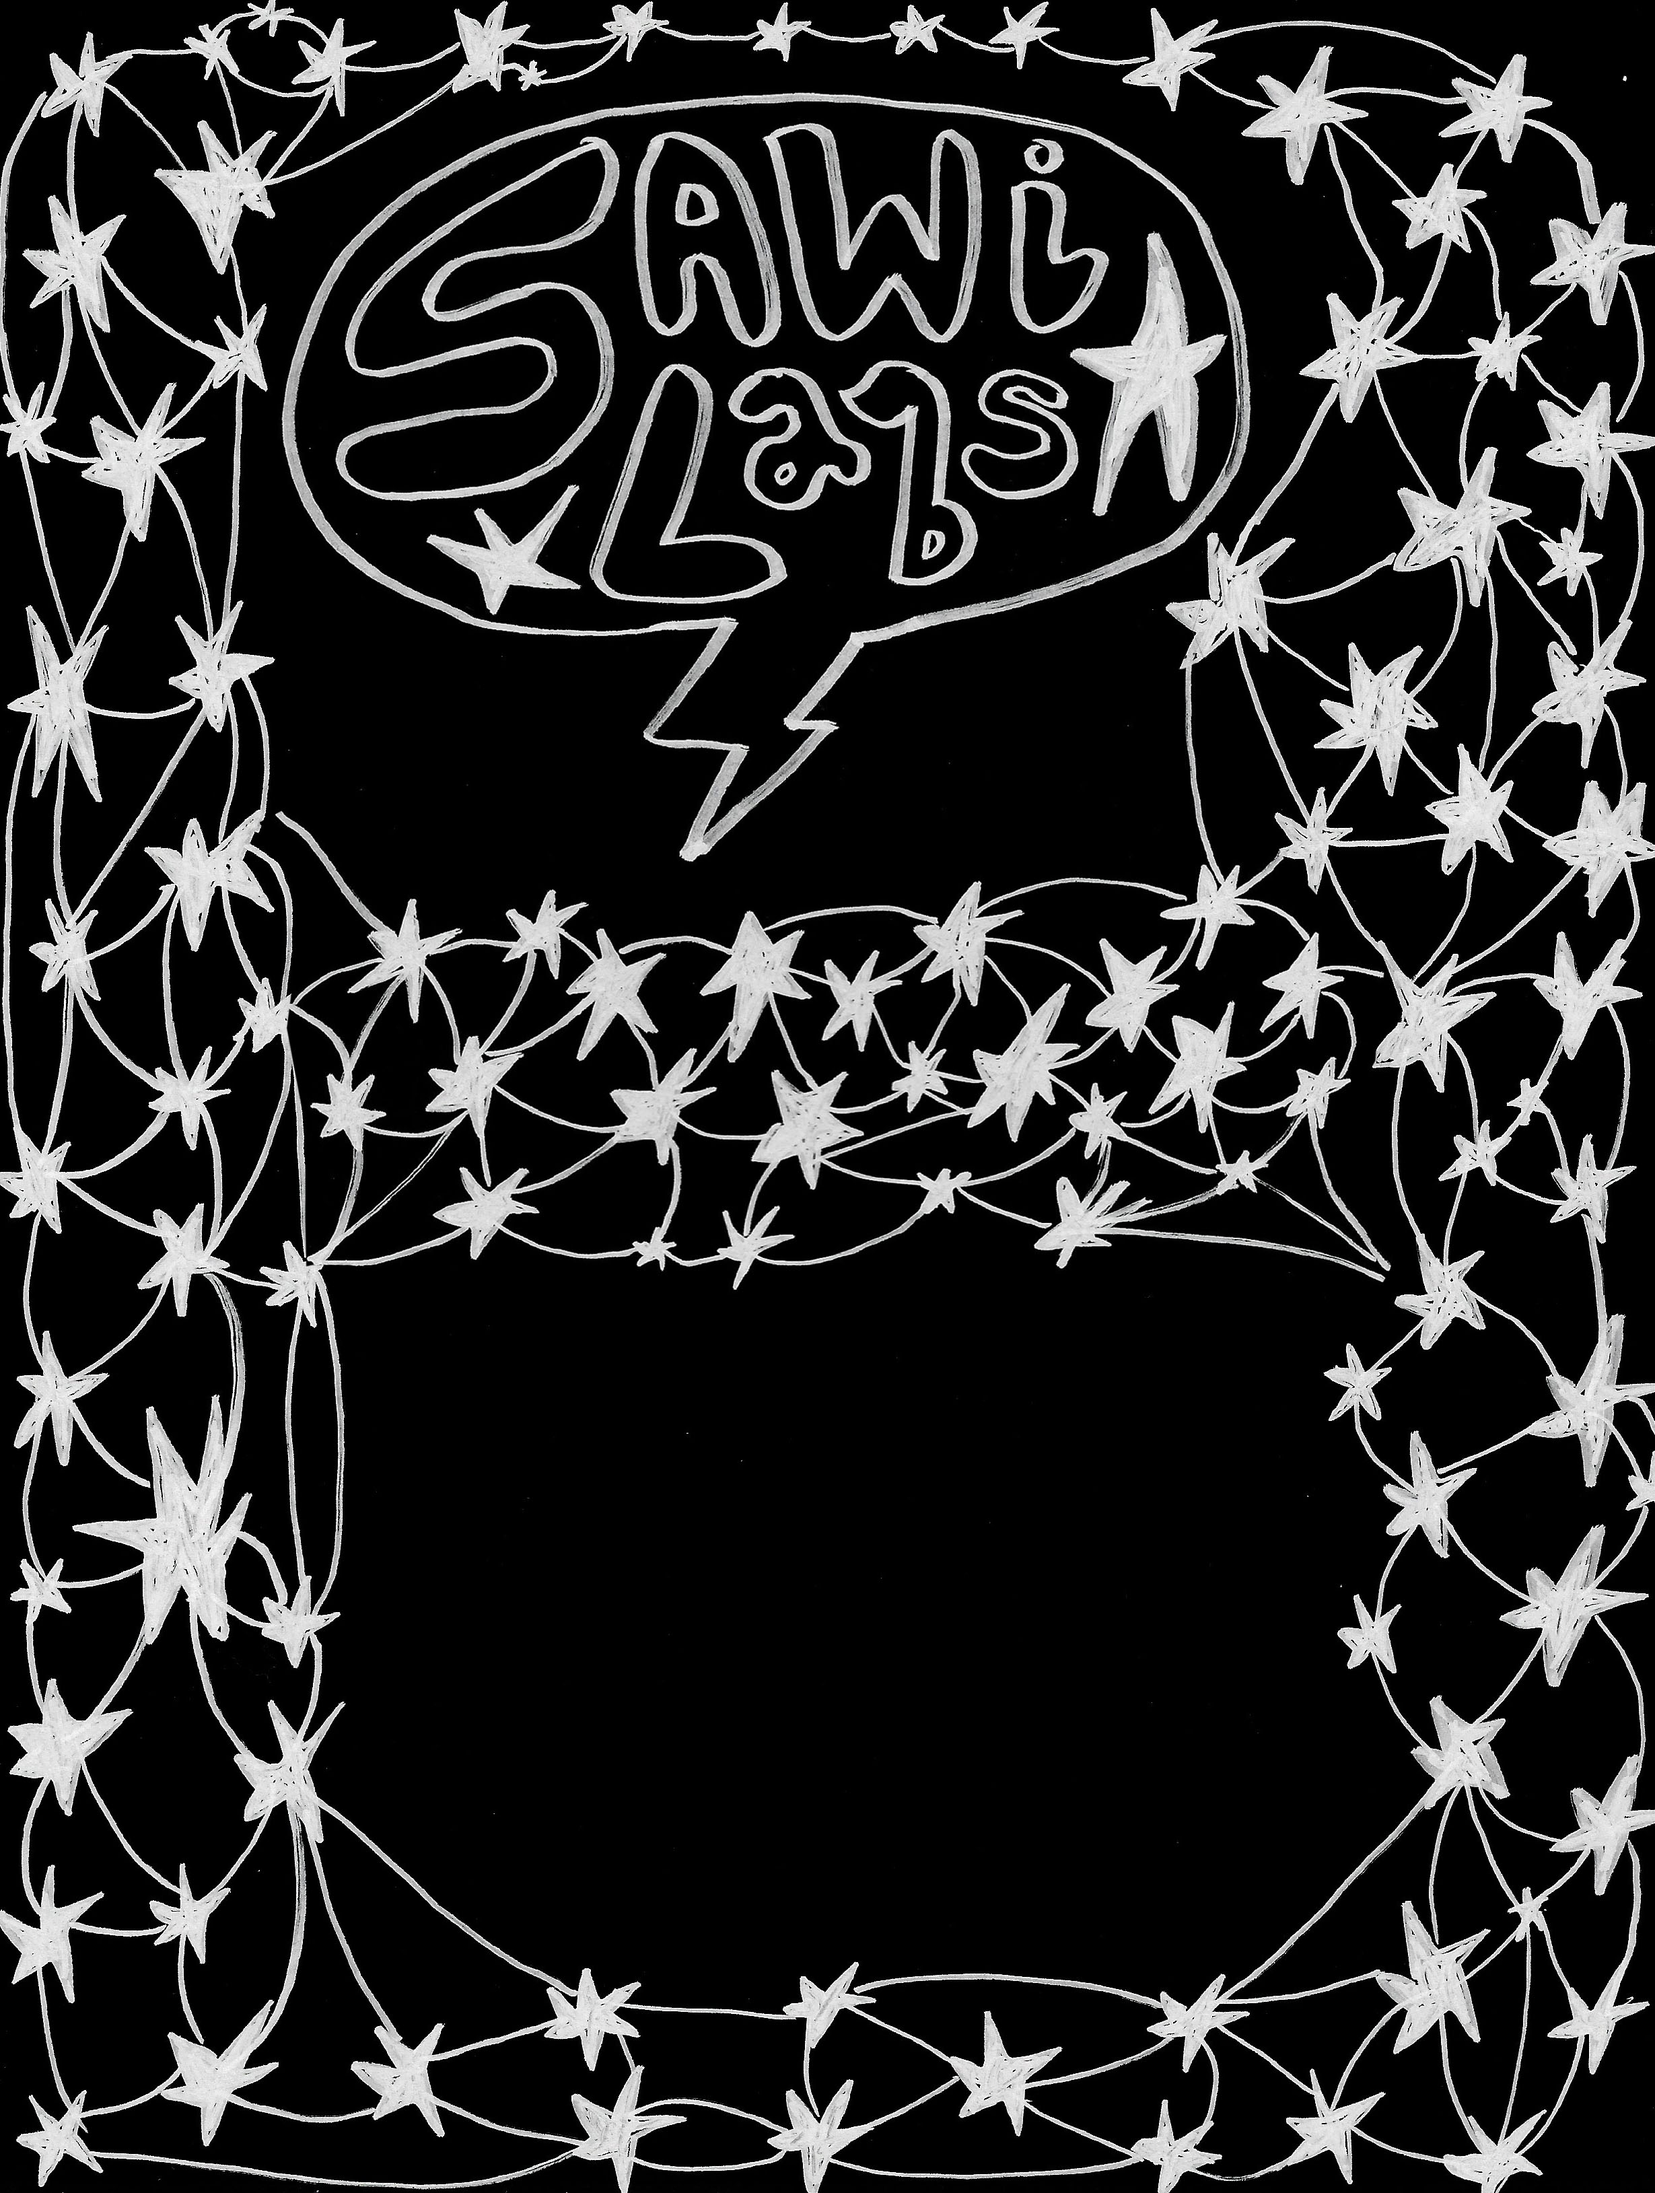
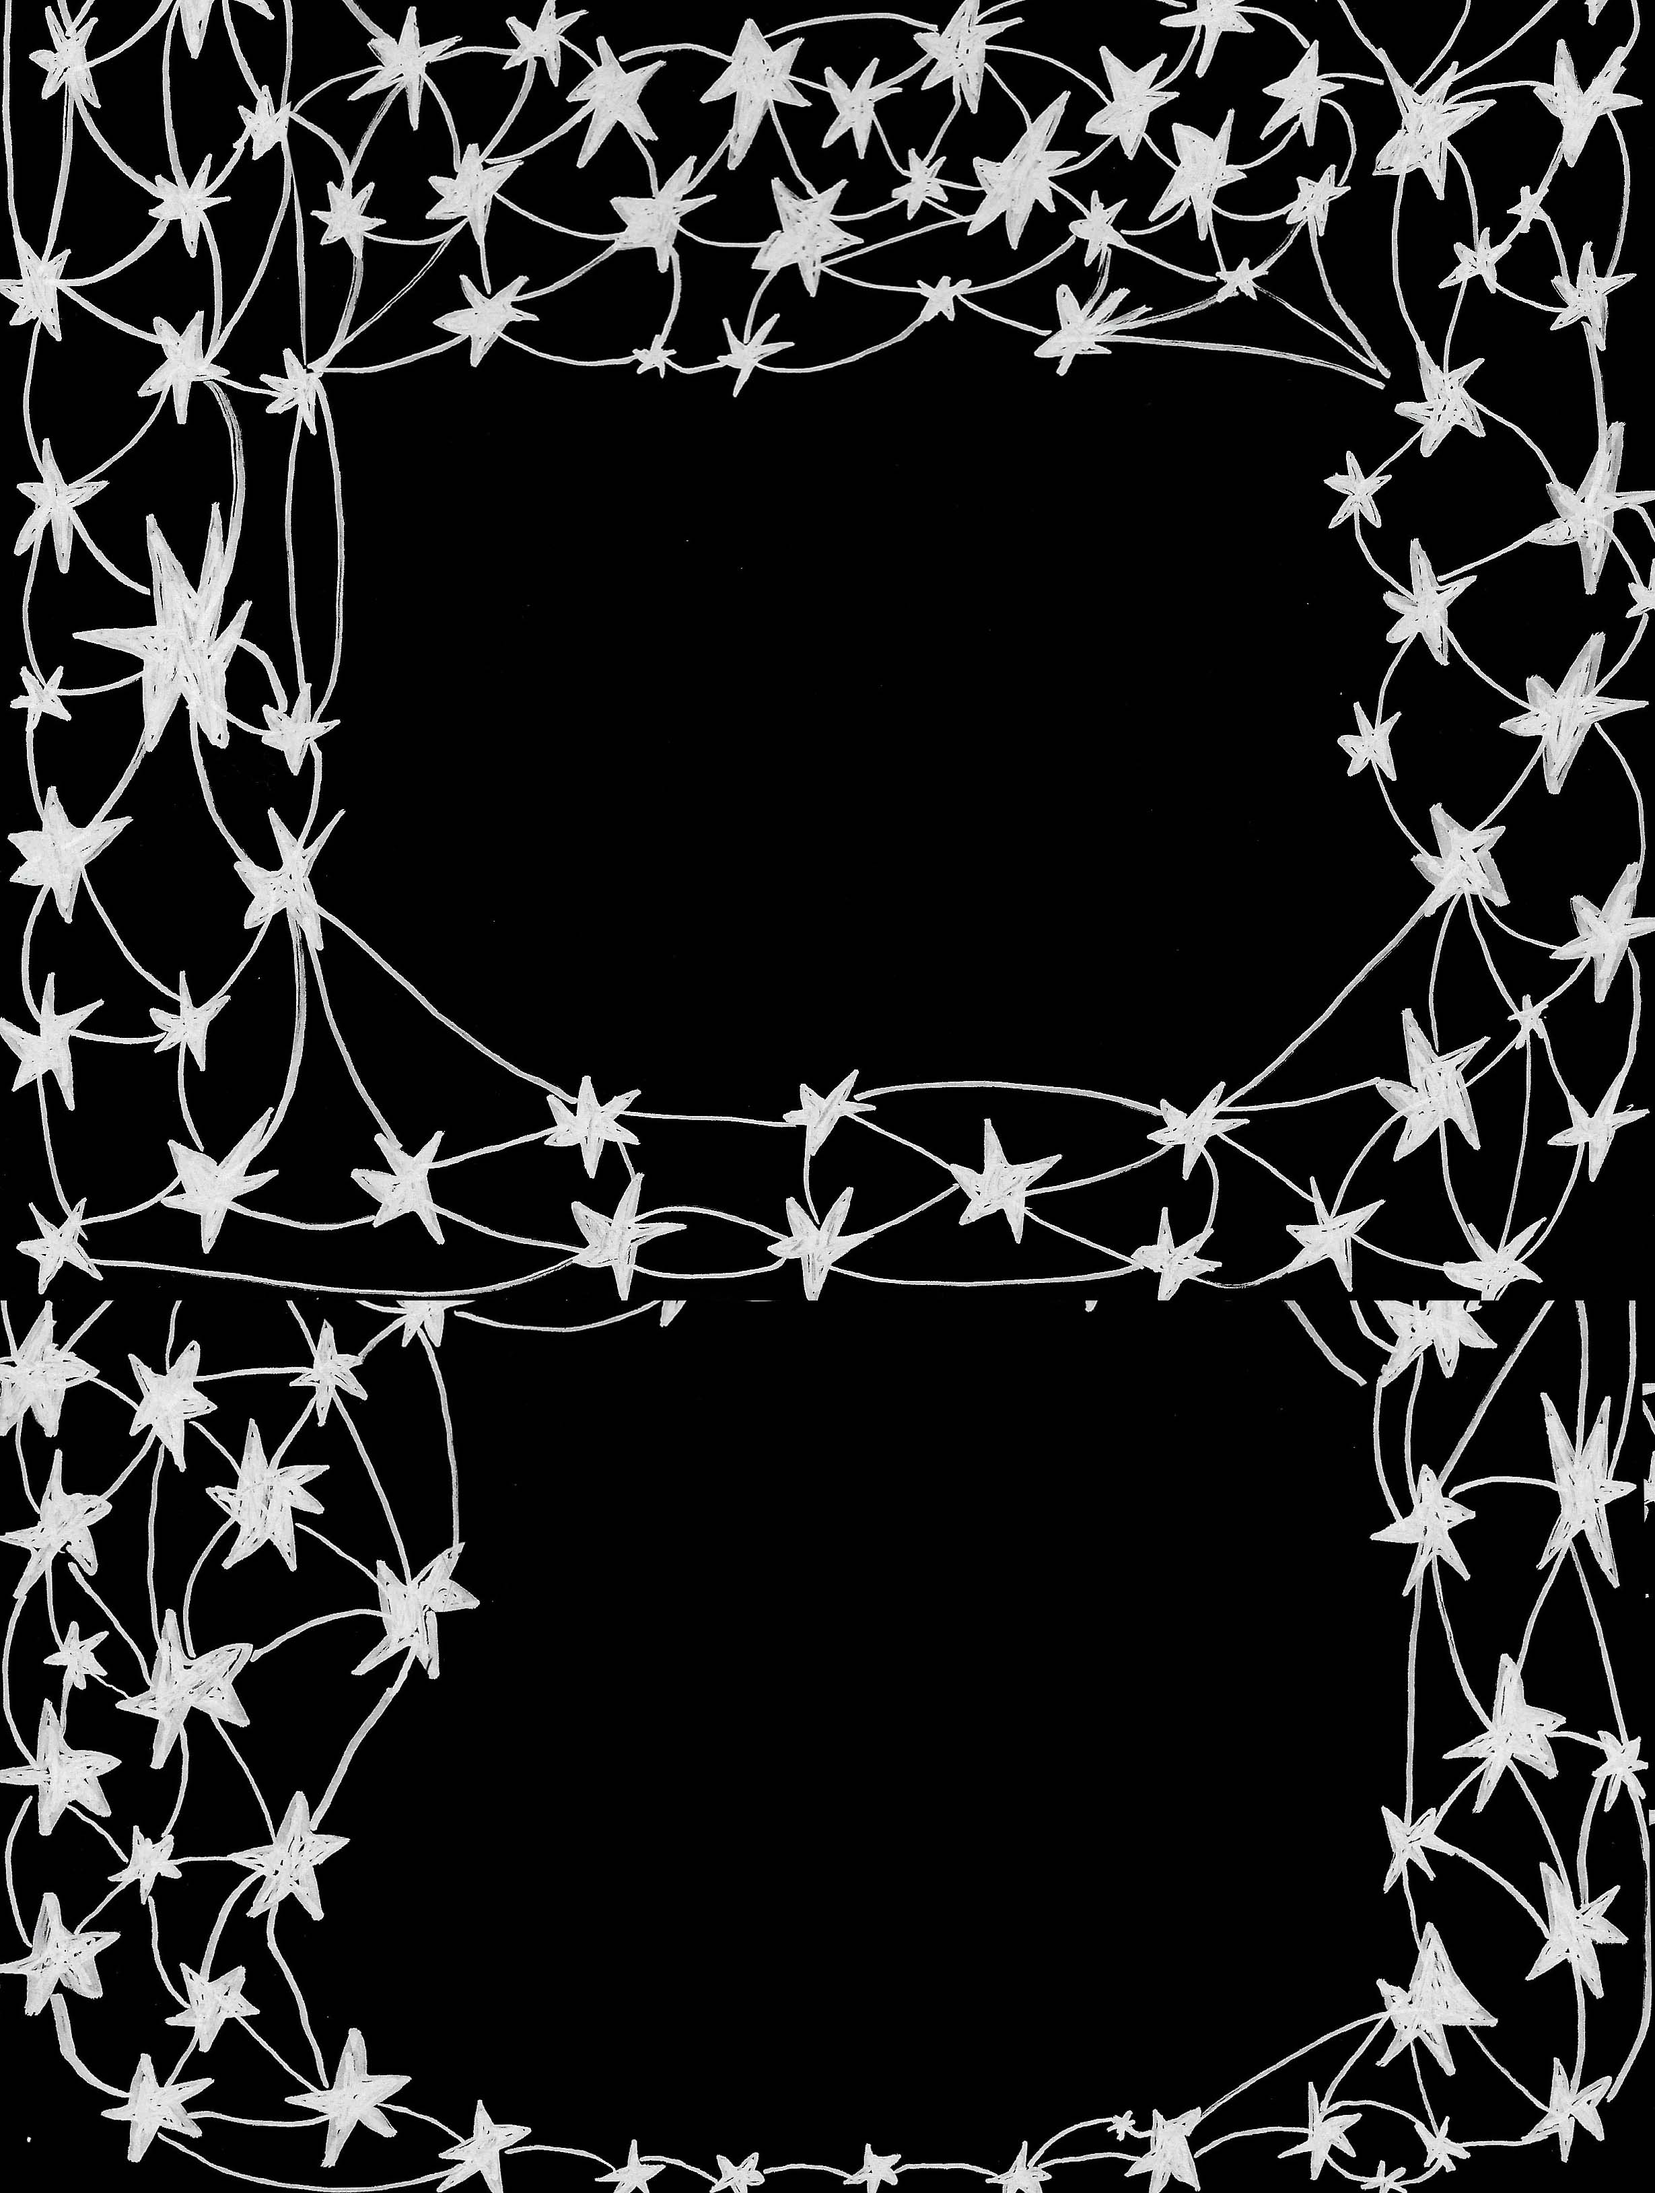
image update, twitter feed embed

Changed region(s): [[0.0, 0.0, 1.0, 1.0], [0.7727, 0.868, 0.8036, 0.899], [0.2782, 0.868, 0.3091, 0.899]]

diff --git a/index.html b/index.html
@@ -20,7 +20,8 @@
 				<!-- Intro -->
 					<div id="intro">
 						<h3>Welcome to </h3><br />
-						<h1>Sawi Labs</h1>
+						<img src="images/logo_vec_small.png">
+						<!--<h1>Sawi Labs</h1>-->
 						<p>&nbsp; &nbsp; creativity &nbsp; curiosity &nbsp; humanity &nbsp; &nbsp; </p>
 						<ul class="actions">
 							<li><a href="#header" class="button icon solid solo fa-arrow-down scrolly">Continue</a></li>
@@ -64,10 +65,10 @@
 
 											Before I was a research assistant at Columbia University in New York City, I composed and performed pop music in the Bay Area, California.
 											<br><br> Here is a collection of scientific and musical works that my collaborators and I have produced over the years.
-											<br><br>
+											<br /><br />
 											My dream is to learn and teach, to be creative and curious for the rest of my life.
-											<br>
-											<center>I've named this dream in memory of my father, the most dedicated learner I know:</p>
+											<br />
+											<center>I've named this dream in memory of my father, the most dedicated learner I ever knew:</p> <br />
 											<h1>Welcome to Sawi Labs</h1>
 											<br>
 											<br>
@@ -82,7 +83,8 @@
 									<header>
 										<h2><a href="#">Research Lab</a></h2>
 									</header>
-									<a href="#" class="image fit"><img src="images/pic02.jpg" alt="" /></a>
+									<a href="#" class="image fit"><img src="images/ml.png" alt="" /></a>
+
 									<p><center>Seismological machine learning research.</p>
 									<ul class="actions special">
 										<li><a href="#" class="button">Enter lab</a></li>
@@ -92,7 +94,7 @@
 									<header>
 										<h2><a href="#">Studio Lab</a></h2>
 									</header>
-									<a href="#" class="image fit"><img src="images/pic03.jpg" alt="" /></a>
+									<a href="#" class="image fit"><img src="images/soundWave.png" alt="" /></a>
 									<p> <center>Original music and art. </p>
 									<ul class="actions special">
 										<li><a href="#" class="button">Enter lab</a></li>
@@ -134,6 +136,7 @@
 								<article>
 									<header>
 										<h2><a href="#">Follow the lab!</a></h2></br>
+										<a class="twitter-timeline" href="https://twitter.com/sawi_labs?ref_src=twsrc%5Etfw">Tweets by sawi_labs</a> <script async src="https://platform.twitter.com/widgets.js" charset="utf-8"></script>
 									</header>
 									<!-- <a href="#" class="image fit"><img src="images/pic04.jpg" alt="" /></a> -->
 

diff --git a/research.html b/research.html
@@ -27,7 +27,7 @@
 
 				<!-- Header -->
 					<header id="header">
-						<a href="research.html" class="logo">Studio Lab</a>
+						<a href="research.html" class="logo">Research Lab</a>
 					</header>
 
 				<!-- Nav -->
